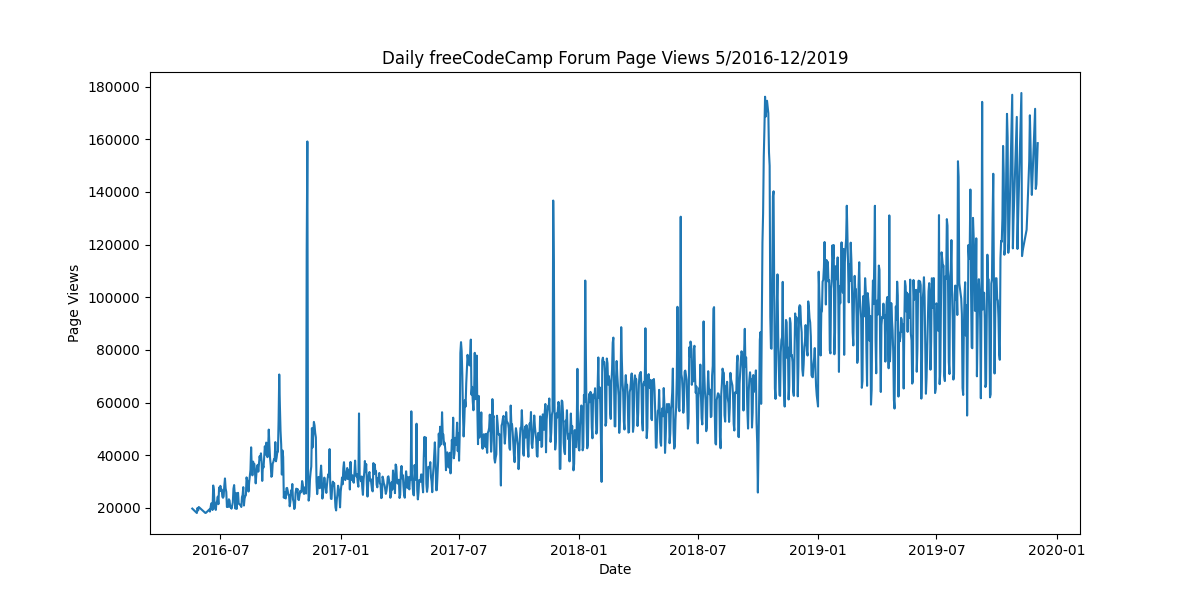
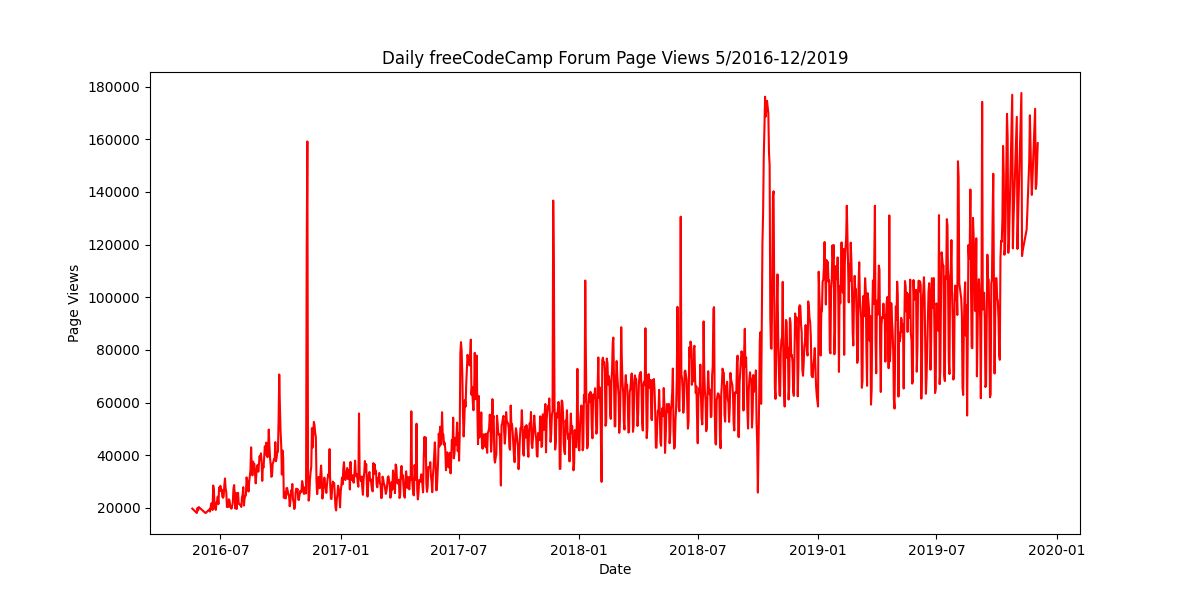
Month by year plot but with numbered months

Changed region(s): [[0.1542, 0.15, 0.8633, 0.87]]

diff --git a/boilerplate-page-view-time-series-visualizer/time_series_visualizer.py b/boilerplate-page-view-time-series-visualizer/time_series_visualizer.py
@@ -6,7 +6,9 @@ from pandas.plotting import register_matplotlib_converters
 register_matplotlib_converters()
 
 # Import data (Make sure to parse dates. Consider setting index column to 'date'.)
-df = pd.read_csv("fcc-forum-pageviews.csv", index_col="date", parse_dates=True)
+df = pd.read_csv(
+    "fcc-forum-pageviews.csv", index_col="date", parse_dates=True
+)  # Parse as dates
 print(df.columns)
 
 # Clean data
@@ -19,7 +21,7 @@ df = df[
 def draw_line_plot():
     # Draw line plot
     fig, ax = plt.subplots(figsize=(12, 6))
-    ax.plot(df.index, df["value"])
+    ax.plot(df.index, df["value"], color="red")
     ax.set_xlabel("Date")
     ax.set_ylabel("Page Views")
     ax.set_title("Daily freeCodeCamp Forum Page Views 5/2016-12/2019")
@@ -31,9 +33,20 @@ def draw_line_plot():
 
 def draw_bar_plot():
     # Copy and modify data for monthly bar plot
-    df_bar = None
+    df_bar = df.copy()
+    df_bar["year"] = df.index.year
+    df_bar["month"] = df.index.month
+    df_bar = df_bar.groupby(["year", "month"])
+
+    df_grouped = df_bar["value"].mean().reset_index(name="avg")
+
+    pivoted_df = df_grouped.pivot(columns="month", values="avg", index="year").fillna(0)
+
+    print(pivoted_df.head())
 
     # Draw bar plot
+    fig, ax = plt.subplots(figsize=(12, 6))
+    pivoted_df.plot(kind="bar", stacked=False, ax=ax)
 
     # Save image and return fig (don't change this part)
     fig.savefig("bar_plot.png")
